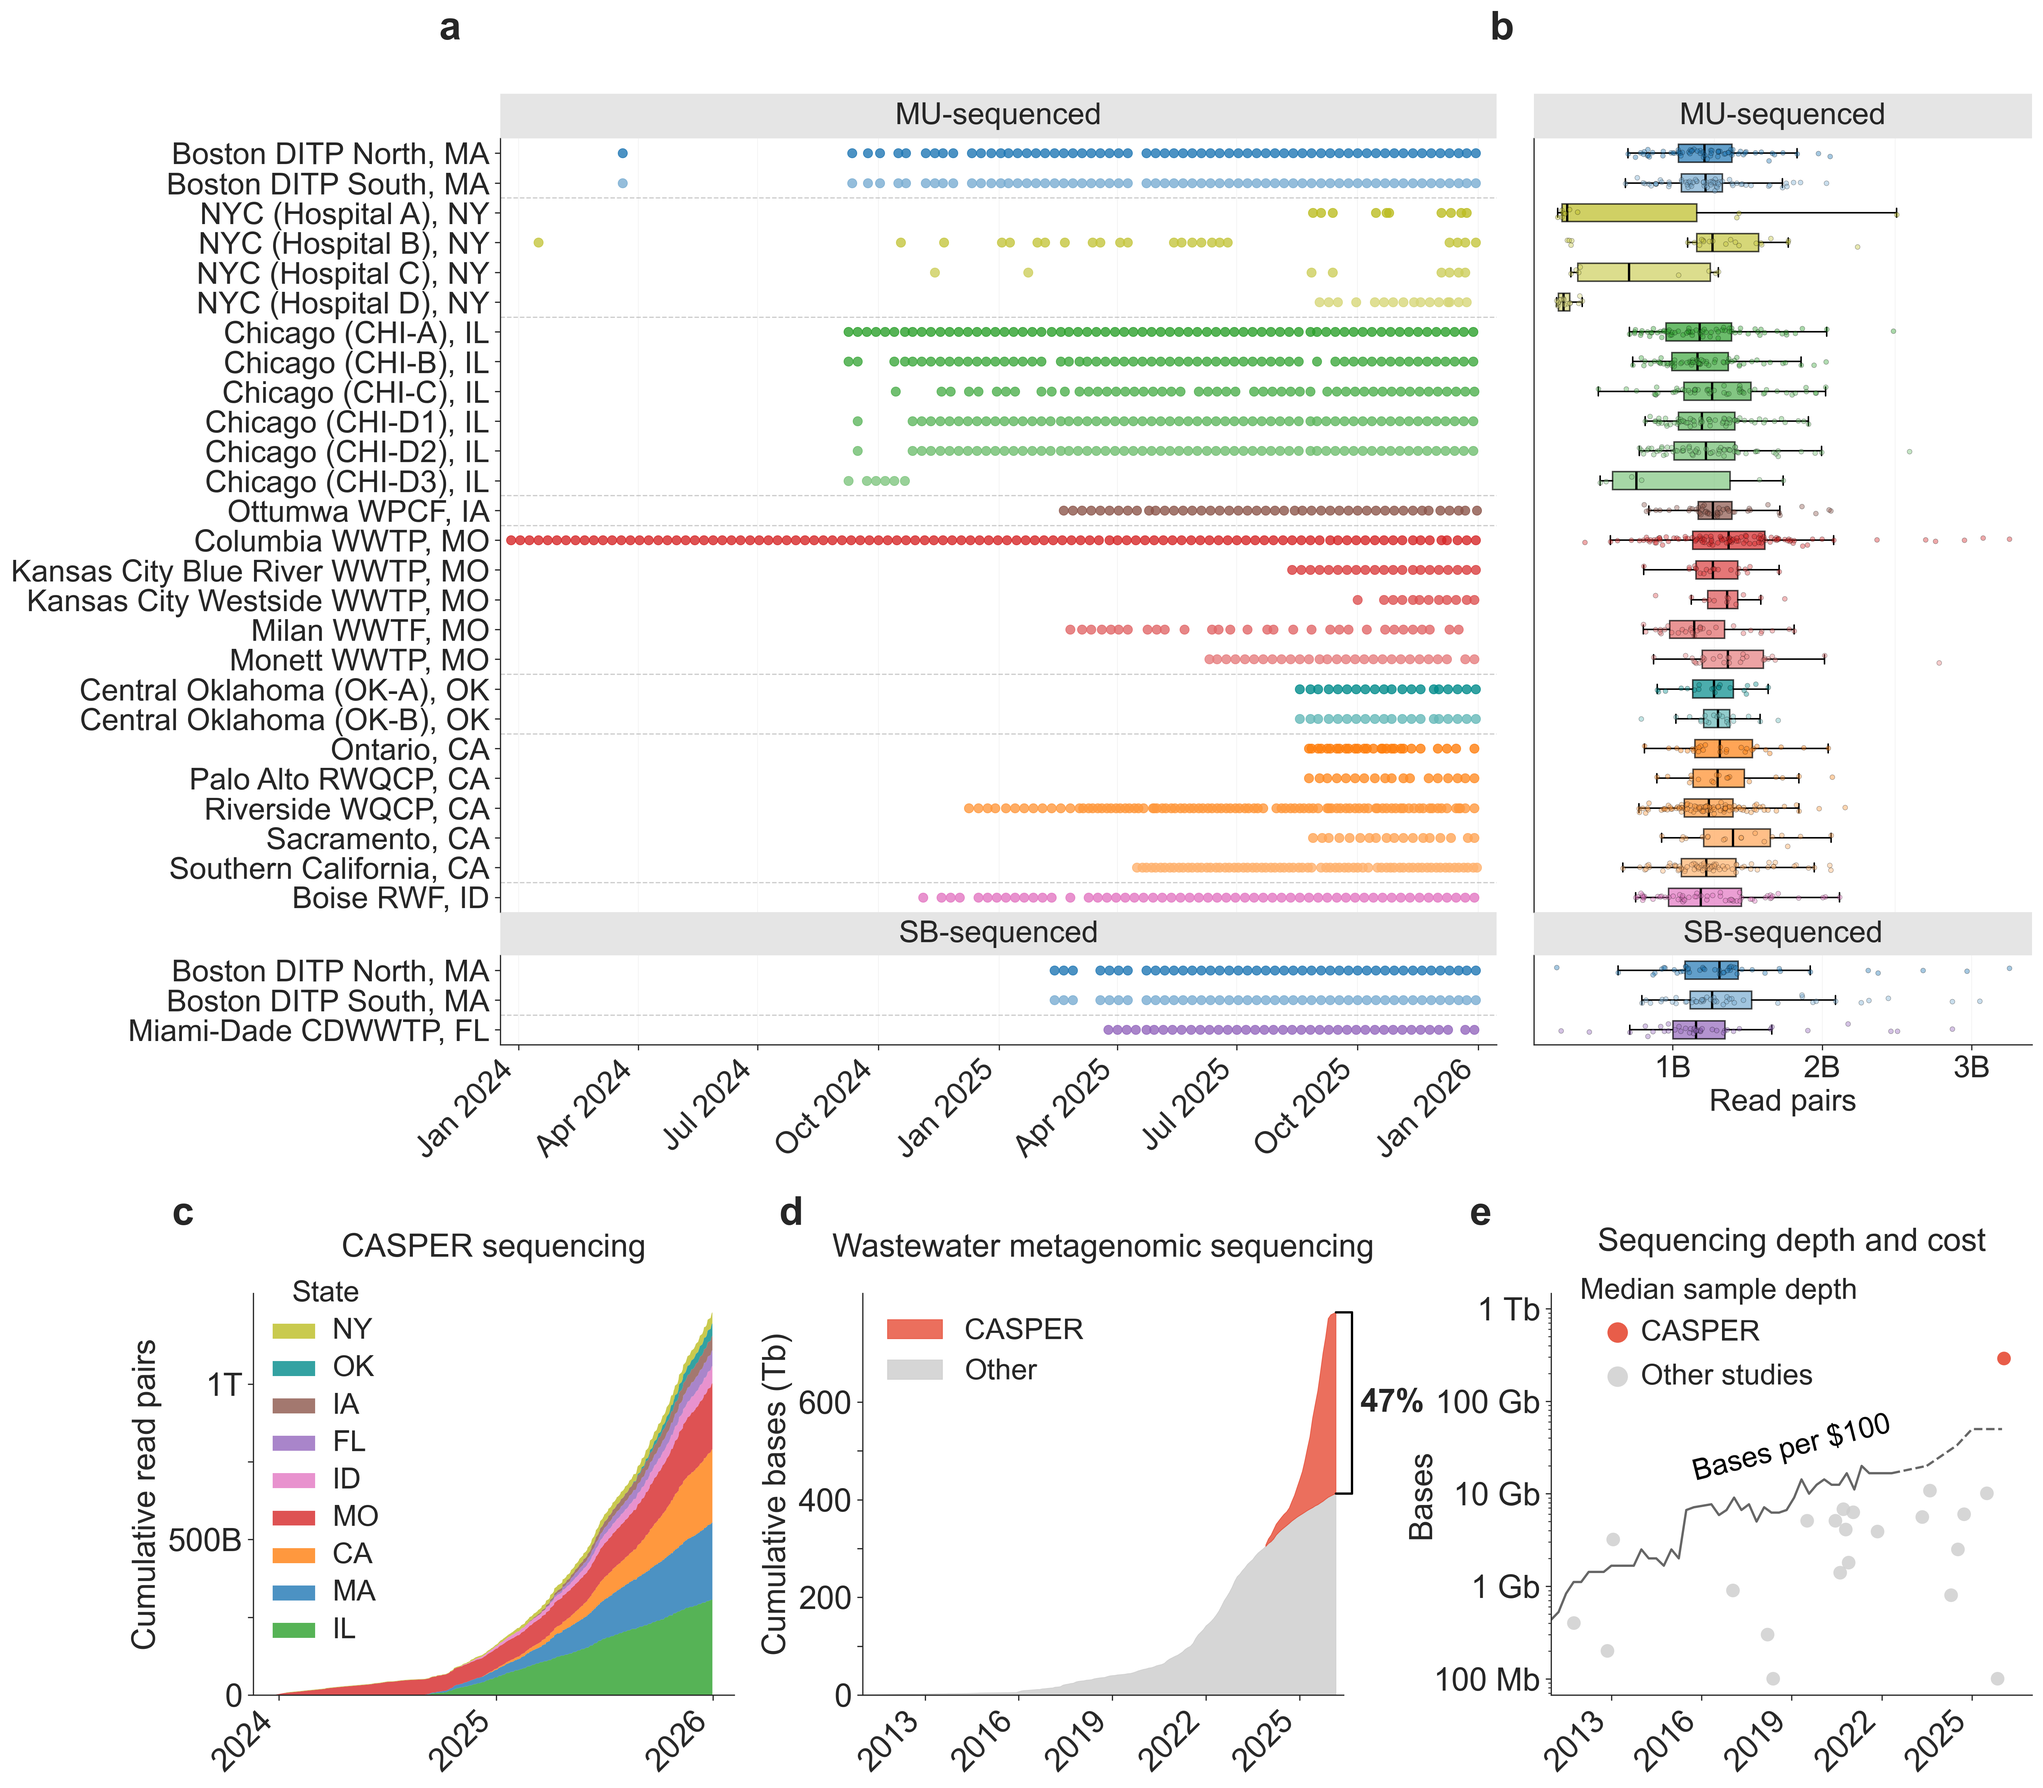
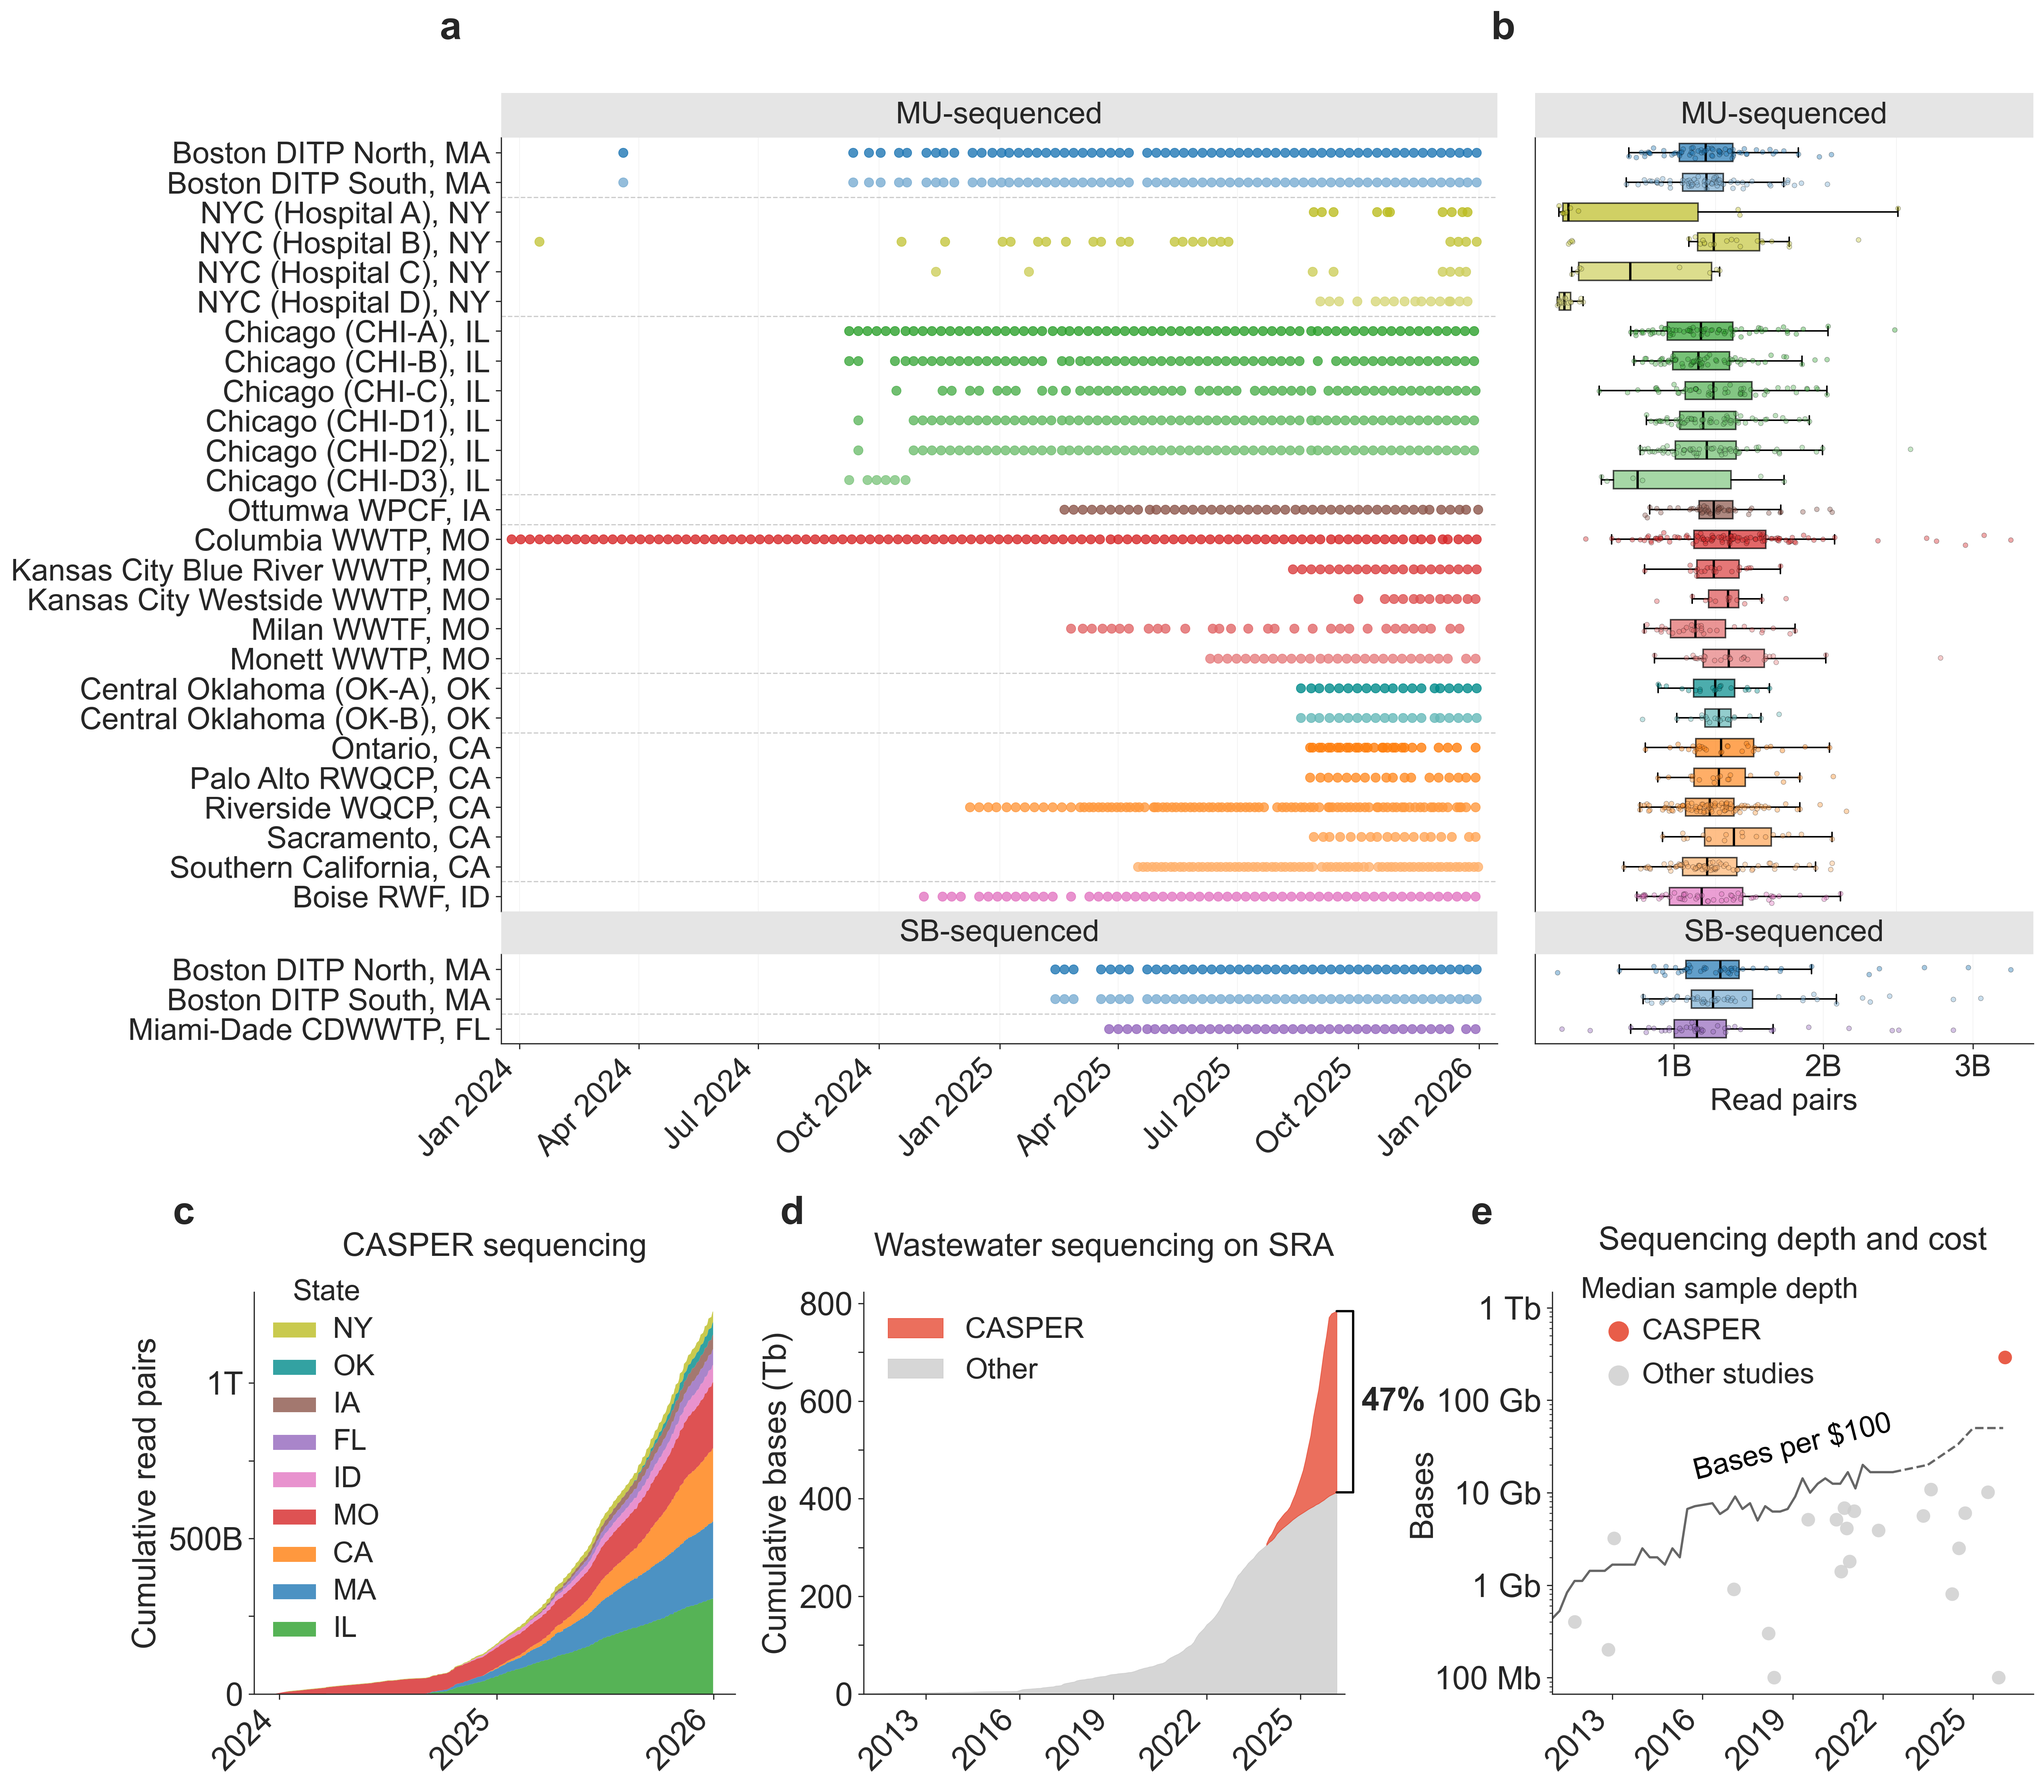
retitle SRA panel and extend its y-axis ticks

diff --git a/code/plot_sampling_timeline_sra_combined.py b/code/plot_sampling_timeline_sra_combined.py
@@ -590,7 +590,7 @@ def plot_sampling_timeline_sra_combined(save_path=None):
     ax_sra_all.tick_params(axis='both', labelsize=FONT_SIZE_LARGE + 3)
     ax_sra_all.spines['top'].set_visible(False)
     ax_sra_all.spines['right'].set_visible(False)
-    ax_sra_all.set_title(ax_sra_all.get_title(), fontsize=FONT_SIZE_LARGE + 3, weight='normal', pad=24)
+    ax_sra_all.set_title('Wastewater sequencing on SRA', fontsize=FONT_SIZE_LARGE + 3, weight='normal', pad=24)
 
     mid_legend = ax_sra_all.get_legend()
     if mid_legend:
@@ -601,8 +601,12 @@ def plot_sampling_timeline_sra_combined(save_path=None):
     for child in ax_sra_all.texts:
         child.set_fontsize(FONT_SIZE_LARGE + 3)
 
-    ax_sra_all.set_yticks([0, 100e6, 200e6, 300e6, 400e6, 500e6, 600e6])
-    ax_sra_all.set_yticklabels(['0', '', '200', '', '400', '', '600'])
+    # Ticks every 100 Tb up to the axis top, labelled every 200 Tb.
+    _tick_top = int(ax_sra_all.get_ylim()[1] // 100e6) * 100e6
+    _ticks = np.arange(0, _tick_top + 1, 100e6)
+    ax_sra_all.set_yticks(_ticks)
+    ax_sra_all.set_yticklabels(
+        [f'{t/1e6:.0f}' if (t / 200e6) % 1 == 0 else '' for t in _ticks])
 
     xlim_mid_left = pd.Timestamp('2011-01-01')
     xlim_mid_right = pd.Timestamp('2026-06-01')
